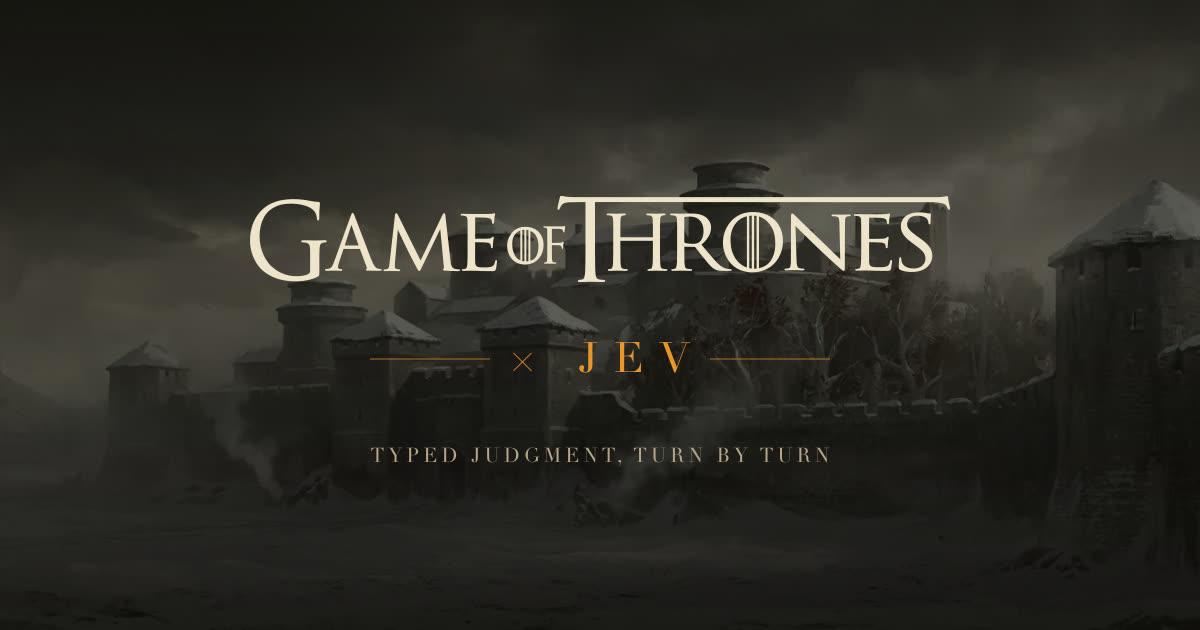
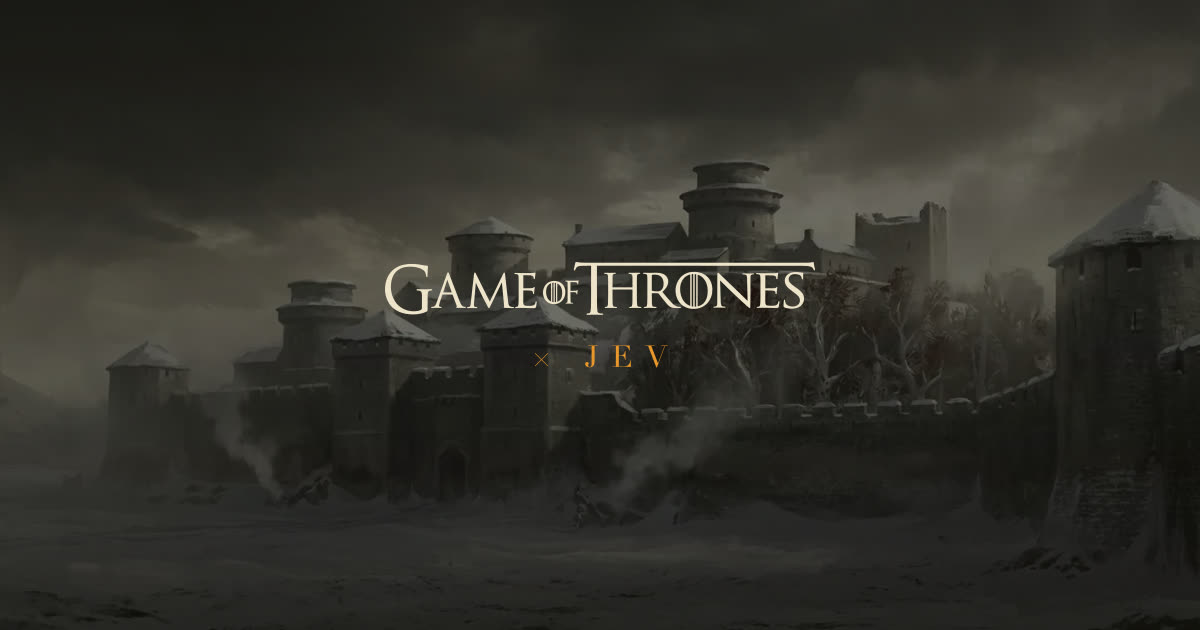
docs: lead the readme with the wordmark
The card carried a tagline and a rule that said less than the artwork
behind it. What is left is the wordmark, one line about what the thing
does, and the address. The logo is rasterised rather than drawn: it holds
type, and an SVG would render it in whatever serif the reader happens to
have.

diff --git a/src/app/layout.tsx b/src/app/layout.tsx
@@ -1,6 +1,7 @@
 import type { Metadata } from "next";
 import { Cinzel, EB_Garamond } from "next/font/google";
 import "./globals.css";
+import { assetUrl } from "@/cdn";
 
 const display = Cinzel({
   subsets: ["latin"],
@@ -29,9 +30,9 @@ export const metadata: Metadata = {
     siteName: TITLE,
     title: TITLE,
     description: DESCRIPTION,
-    images: [{ url: "/og.jpg", width: 1200, height: 630, alt: TITLE }],
+    images: [{ url: assetUrl("/og.jpg"), width: 1200, height: 630, alt: TITLE }],
   },
-  twitter: { card: "summary_large_image", title: TITLE, description: DESCRIPTION, images: ["/og.jpg"] },
+  twitter: { card: "summary_large_image", title: TITLE, description: DESCRIPTION, images: [assetUrl("/og.jpg")] },
 };
 
 export default function RootLayout({ children }: LayoutProps<"/">) {

diff --git a/README.md b/README.md
@@ -1,6 +1,25 @@
-# Game of Thrones x Jev
+<p align="center">
+  <picture>
+    <source media="(prefers-color-scheme: dark)" srcset=".github/logo-dark.png">
+    <img src=".github/logo.png" alt="Game of Thrones x Jev" width="460">
+  </picture>
+</p>
 
-A Game of Thrones roleplay, turn base where you play Jon Snow.
+<p align="center">
+  <strong>Typed judgment, turn by turn</strong>
+</p>
+
+<p align="center">
+  A Game of Thrones roleplay where you play Jon Snow. A story model writes each scene;
+  TypeSafe's Jev reads it back and decides where you now stand, what kind of scene it was,
+  how much danger you are in, and what should play under it.
+</p>
+
+<p align="center">
+  <a href="https://jev.phureewat.com"><strong>jev.phureewat.com</strong></a>
+</p>
+
+<br />
 
 Each turn, a story model writes the next scene. Then [TypeSafe](https://docs.typesafe.ai)'s
 **Jev** reads that scene and answers multiple questions: where Jon now stands,
